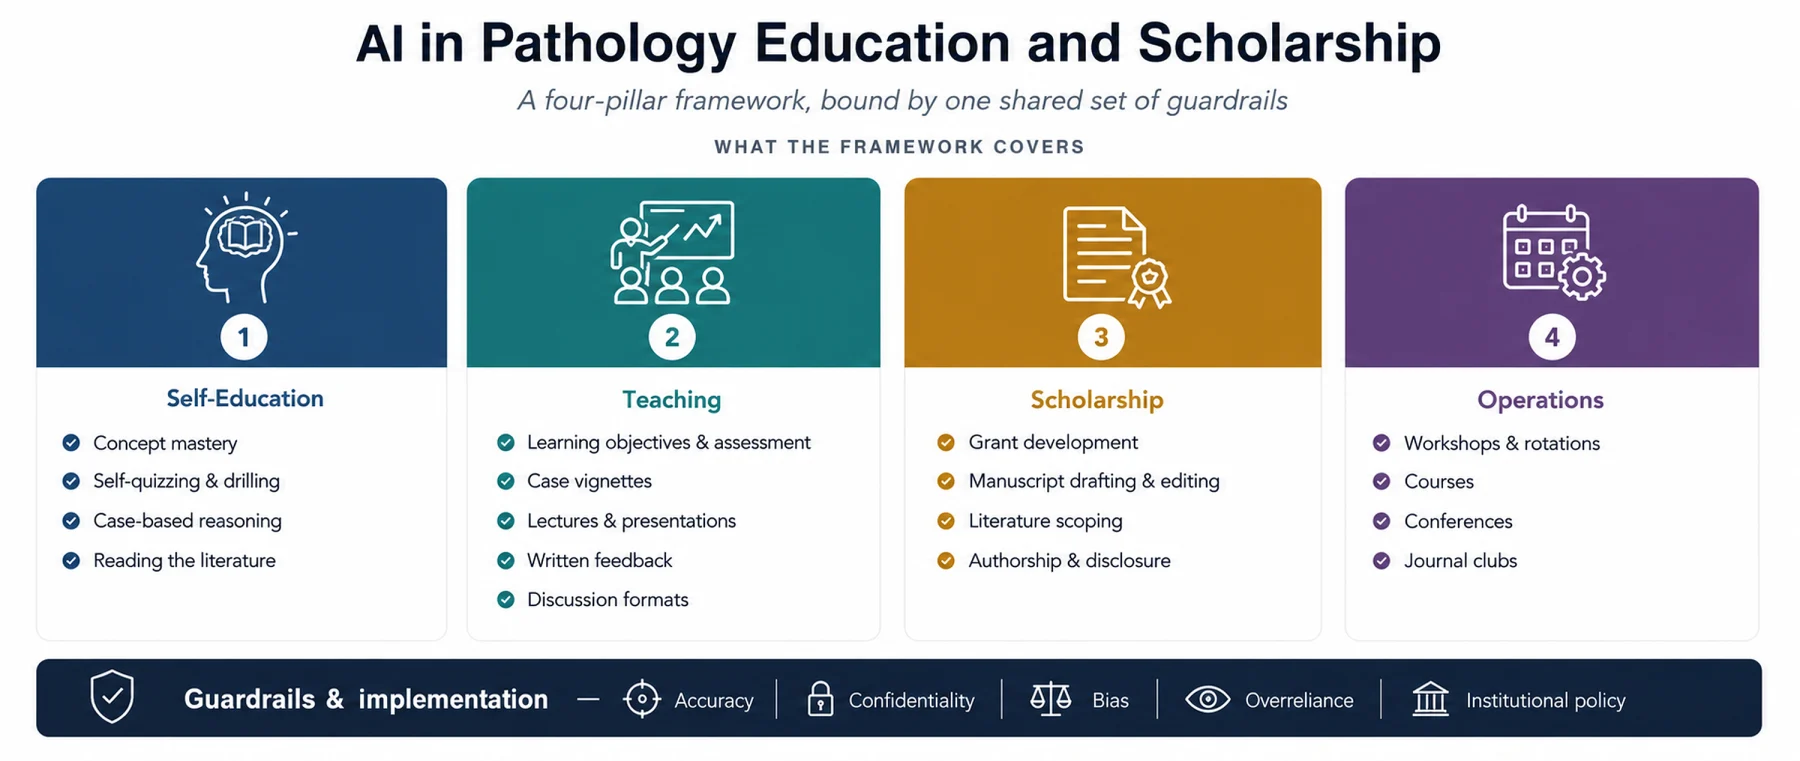
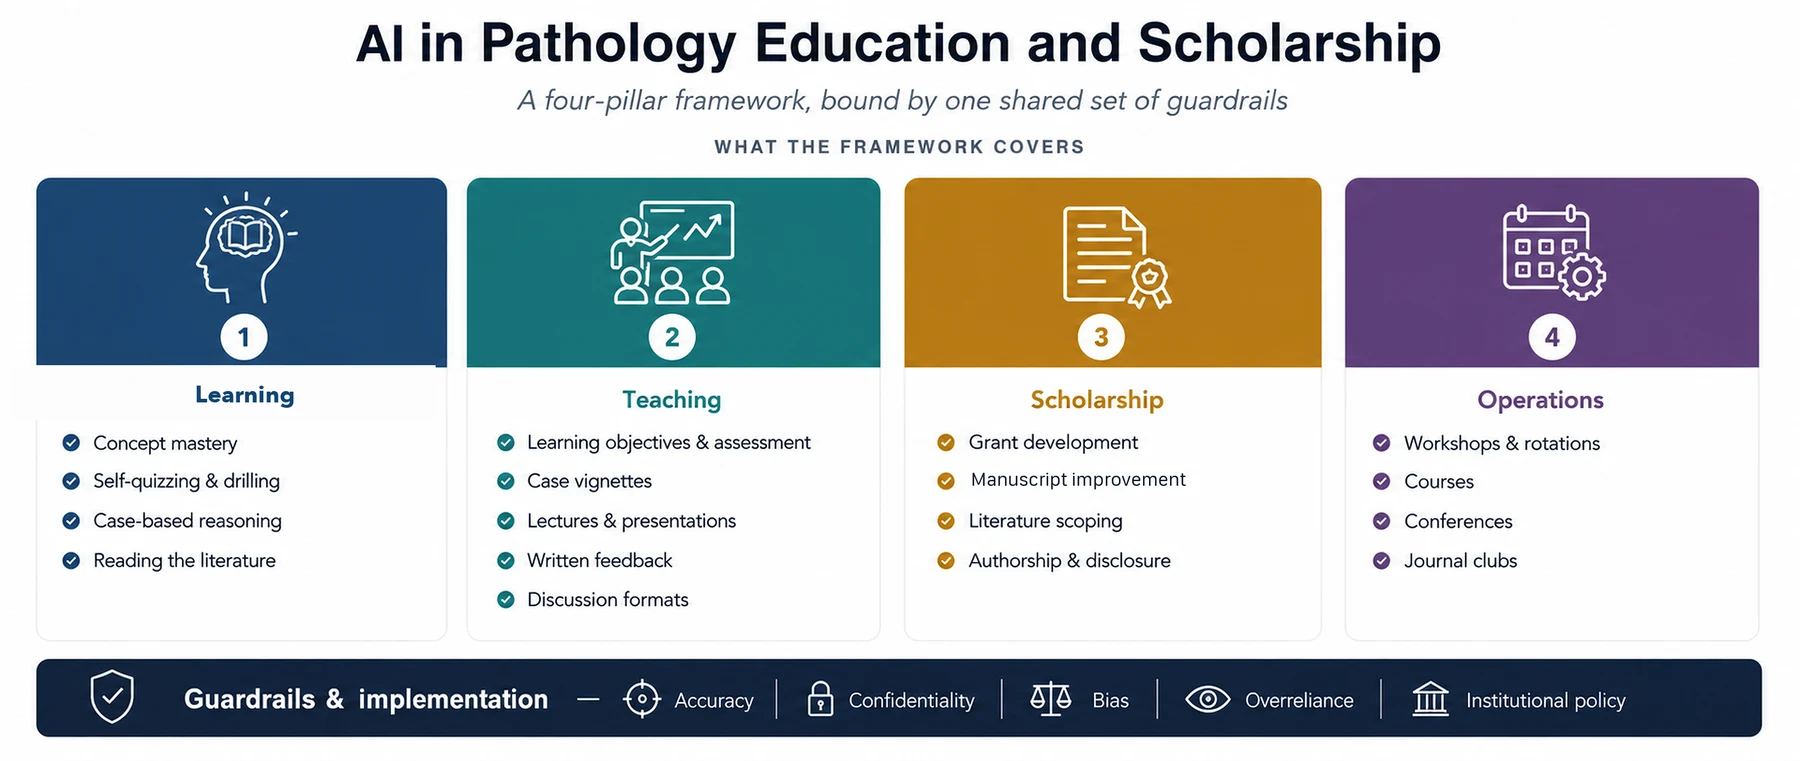
fix: update Figure 1 image and rename Scholarship category to match manuscript
Figure 1 still showed the retired "Self-Education" label and the old
"Manuscript drafting & editing" item; swapped in the corrected raster
(Learning label, Manuscript improvement item) with a matching alt text
and caption update. Also renamed the "Manuscript language editing"
category to "Manuscript improvement" everywhere on the site, matching
the manuscript's now-canonical wording (Dr. Lele's suggested term,
already applied to the manuscript's own Table 2).

Changed region(s): [[0.5289, 0.6045, 0.6844, 0.6649], [0.0311, 0.4534, 0.2489, 0.4836], [0.0933, 0.5138, 0.1867, 0.544]]

diff --git a/index.html b/index.html
@@ -93,14 +93,14 @@
     <figure class="ms-figure" style="margin:0 0 2.5rem">
       <img src="assets/img/figure1-four-pillars.webp" width="1800" height="761"
            loading="eager" fetchpriority="high"
-           alt="Manuscript Figure 1: four labeled pillars — Self-Education (concept mastery, self-quizzing and drilling, case-based reasoning, reading the literature), Teaching (learning objectives and assessment, case vignettes, lectures and presentations, written feedback, discussion formats), Scholarship (grant development, manuscript drafting and editing, literature scoping, authorship and disclosure), and Operations (workshops and rotations, courses, conferences, journal clubs) — above a single guardrails and implementation band listing accuracy, confidentiality, bias, overreliance, and institutional policy.">
+           alt="Manuscript Figure 1: four labeled pillars — Learning (concept mastery, self-quizzing and drilling, case-based reasoning, reading the literature), Teaching (learning objectives and assessment, case vignettes, lectures and presentations, written feedback, discussion formats), Scholarship (grant development, manuscript improvement, literature scoping, authorship and disclosure), and Operations (workshops and rotations, courses, conferences, journal clubs) — above a single guardrails and implementation band listing accuracy, confidentiality, bias, overreliance, and institutional policy.">
       <figcaption><b>Manuscript Figure 1 — the four-pillar framework at a
         glance.</b> The framework spans learning (concept mastery,
         self-quizzing, case-based reasoning, reading the literature); teaching,
         curriculum, and assessment (learning objectives and assessment, case
         vignettes, lectures and presentations, written feedback, discussion
-        formats); scholarship (grant development, manuscript drafting and
-        editing, literature scoping, authorship and disclosure); and workflow
+        formats); scholarship (grant development, manuscript improvement,
+        literature scoping, authorship and disclosure); and workflow
         and operations (workshops, rotations, courses, conferences, journal
         clubs). A single set of guardrails — accuracy, confidentiality, bias,
         overreliance, and accountability — applies across all four pillars.

diff --git a/scripts/build_manifest.py b/scripts/build_manifest.py
@@ -63,7 +63,7 @@ SECTION_ORDER = {
     ],
     "scholarship": [
         "Ideation & question refinement", "Literature scoping",
-        "Manuscript language editing", "Pre-submission critique",
+        "Manuscript improvement", "Pre-submission critique",
         "Grant development", "Authorship & disclosure",
     ],
     "workflow-operations": [
@@ -109,8 +109,8 @@ SCHOLARSHIP_SECTIONS = {
     "testable-questions-ladder": "Ideation & question refinement",
     "search-term-scoping": "Literature scoping",
     "mesh-term-clustering": "Literature scoping",
-    "language-editing-guardrailed": "Manuscript language editing",
-    "discussion-outline-from-notes": "Manuscript language editing",
+    "language-editing-guardrailed": "Manuscript improvement",
+    "discussion-outline-from-notes": "Manuscript improvement",
     "pre-submission-critique": "Pre-submission critique",
     "title-abstract-screening": "Literature scoping",
     "grant-step-1-build-context": "Grant development",
@@ -120,10 +120,10 @@ SCHOLARSHIP_SECTIONS = {
     "grant-step-5-build-story": "Grant development",
     "grant-step-6-draft-aims": "Grant development",
     "ai-disclosure-drafting": "Authorship & disclosure",
-    "response-to-reviewers-organizer": "Manuscript language editing",
-    "limitations-section-drafting": "Manuscript language editing",
-    "abstract-structuring-from-results": "Manuscript language editing",
-    "cover-letter-structure": "Manuscript language editing",
+    "response-to-reviewers-organizer": "Manuscript improvement",
+    "limitations-section-drafting": "Manuscript improvement",
+    "abstract-structuring-from-results": "Manuscript improvement",
+    "cover-letter-structure": "Manuscript improvement",
     "credit-contribution-statement": "Authorship & disclosure",
     "lay-summary-grant-relevance": "Grant development",
     "reviewer-comment-tracking-table": "Pre-submission critique",
